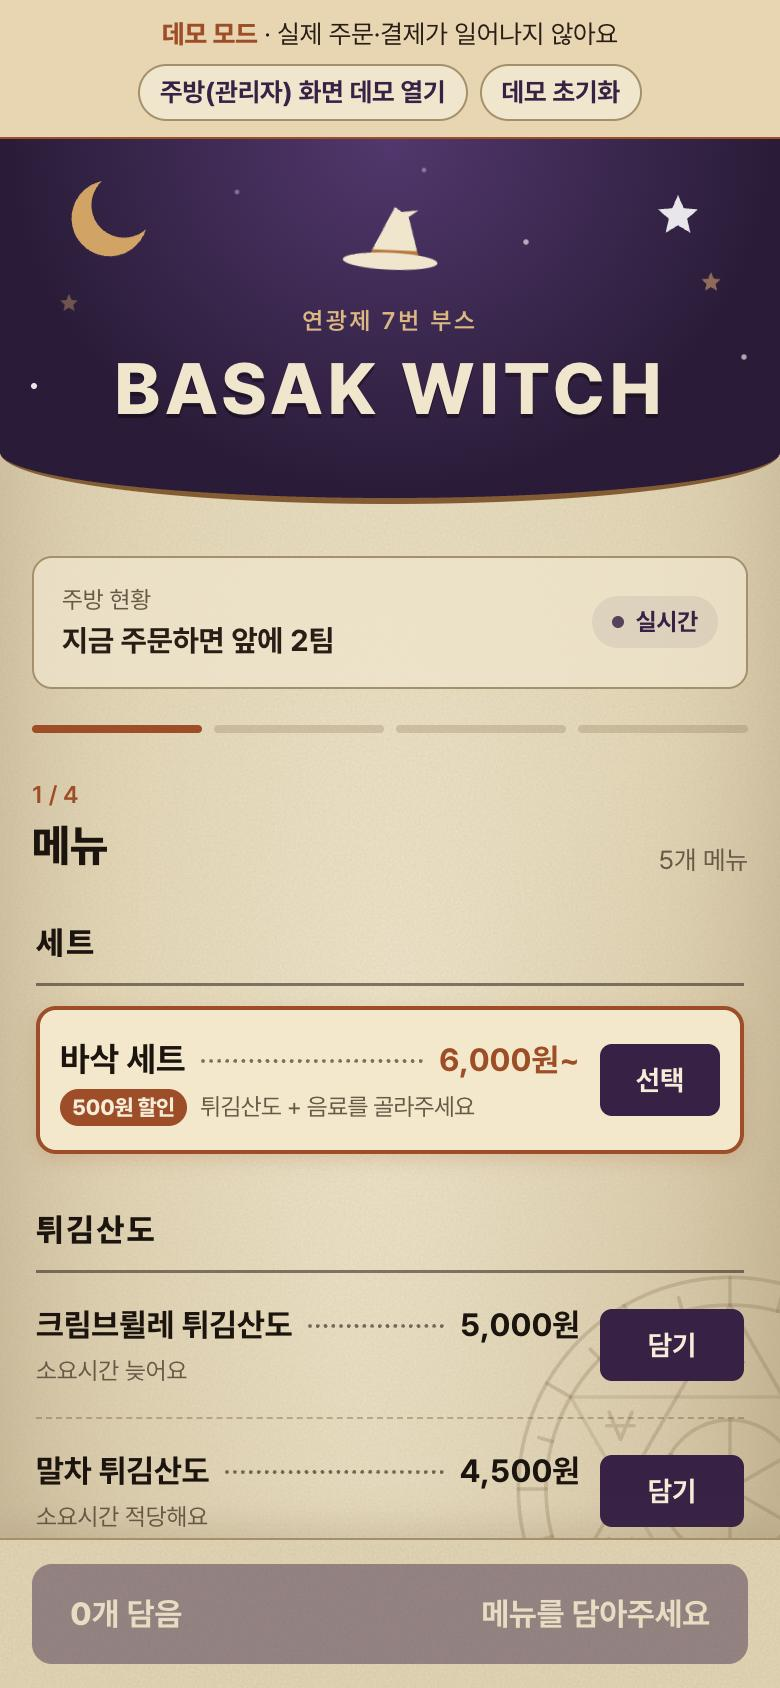
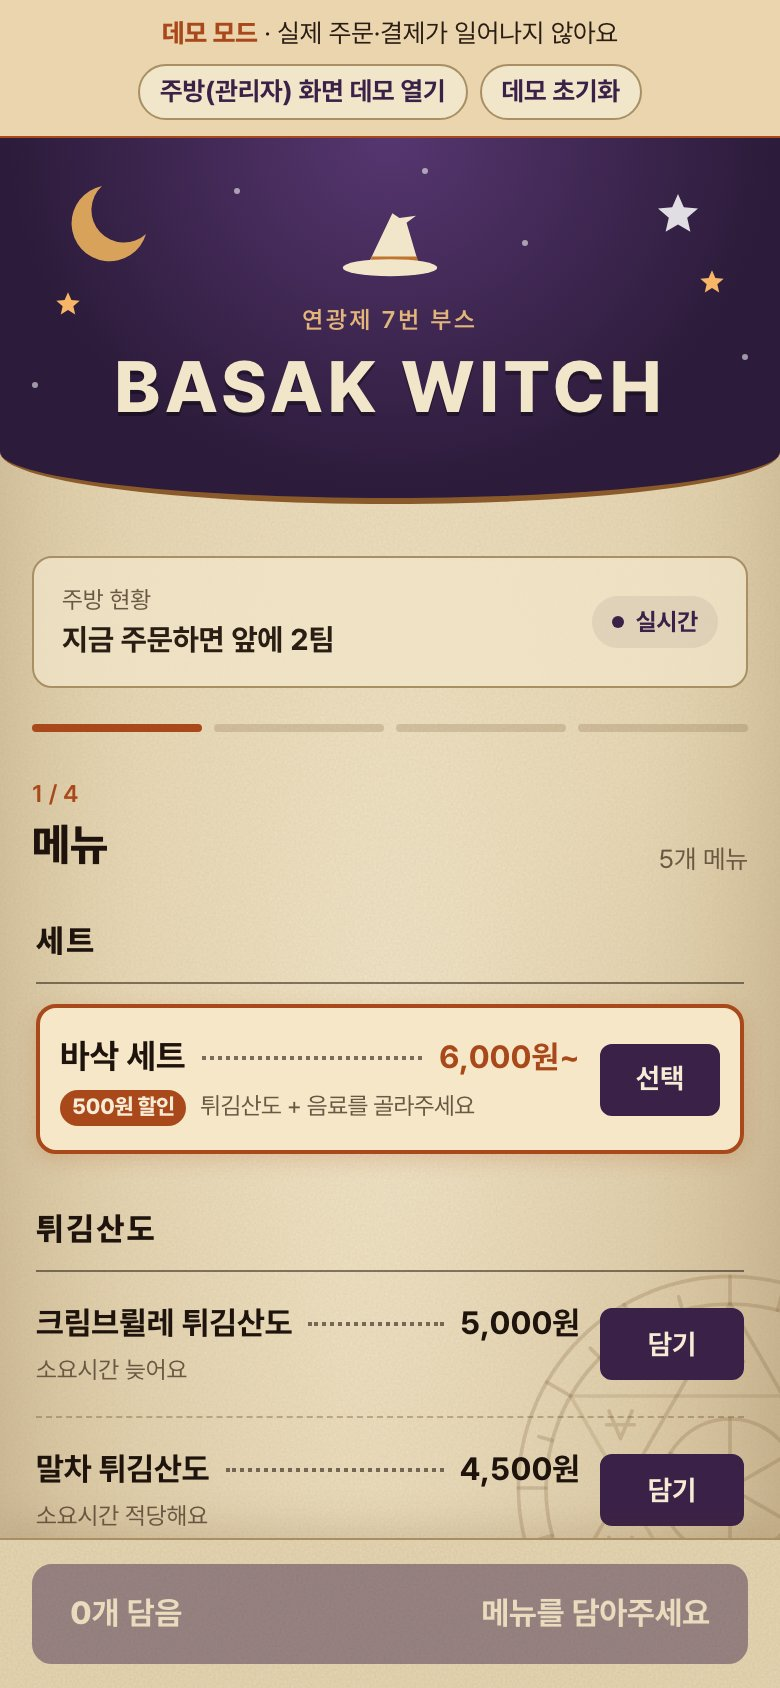
docs: README 소개 스크린샷 크기 맞추고 주문 현황을 PC 화면으로, Supabase DB 사용 설명 추가
- 고객 화면 두 장을 같은 폰 크기(390×844, 2배)로 다시 찍어 나란히 배치
- 관리자 주방 주문 현황을 PC 크기(1440×900) 화면으로 다시 찍어 아래에 크게 배치
- 'Supabase 연결과 DB 사용' 절 추가: 연결 방식, 마이그레이션 37개, 테이블 6개, DB 함수(RPC), Realtime·Auth·RLS

diff --git a/README.md b/README.md
@@ -20,9 +20,15 @@
 학교 축제 **연광제 2026**(10/28~29)에서 운영한 7번 부스 **BASAK WITCH**(튀김산도·음료)의 주문 웹앱입니다.
 손님은 부스 앞 QR 코드를 찍어 폰으로 주문·송금하고, 부스 안에서는 태블릿의 주방 화면으로 주문을 처리합니다.
 
-| 데모 고객 메뉴 | 데모 고객 수령 알림 대기 | 데모 주방 화면 |
-| --- | --- | --- |
-| ![고객 메뉴](docs/screenshots/demo-customer-menu.jpg) | ![고객 대기 현황](docs/screenshots/demo-customer-ready.jpg) | ![주방 화면](docs/screenshots/demo-admin-kitchen.jpg) |
+| 고객 화면 · 메뉴 (폰) | 고객 화면 · 수령 알림 (폰) |
+| :---: | :---: |
+| <img src="docs/screenshots/demo-customer-menu.jpg" alt="고객 메뉴 화면" width="300"> | <img src="docs/screenshots/demo-customer-ready.jpg" alt="고객 수령 알림 화면" width="300"> |
+
+**주방 화면 · 주문 현황 (PC)**
+
+<img src="docs/screenshots/demo-admin-kitchen.jpg" alt="관리자 주방 주문 현황 화면" width="100%">
+
+<sub>모두 데모 모드에서 찍은 화면이며, 이름·연락처는 예시 값입니다.</sub>
 
 ### 고객 화면 (`index.html`)
 1. **메뉴** — 바삭 세트(튀김산도 + 음료, 500원 할인), 튀김산도 3종, 음료 2종(청귤에이드는 청귤차로 변경 가능). 품절·남은 수량 표시.
@@ -42,6 +48,33 @@
 - 가격·세트 할인·재고 차감은 브라우저가 아니라 DB 함수 `booth_create_order`에서 다시 계산합니다(손님이 금액을 조작할 수 없음).
 - 손님에게는 RLS(행 수준 보안)로 메뉴와 공개 대기열(번호·상태)만 보이고, 입금자명·연락처는 관리자만 봅니다.
 - 화면 코드는 `window.BoothStore` 인터페이스만 사용합니다. 실제 모드는 `assets/supabase-store.js`, 데모 모드는 `assets/demo-store.js`가 같은 함수를 구현하고, `assets/boot.js`가 주소의 `?demo` 여부로 둘 중 하나를 불러옵니다.
+
+### Supabase 연결과 DB 사용
+메뉴·주문·매출 데이터는 모두 **Supabase**(클라우드 PostgreSQL)에 저장하고, 고객 화면과 주방 화면이 같은 DB를 실시간으로 함께 씁니다.
+
+- **연결**: 브라우저에서 `@supabase/supabase-js@2.49.4`로 접속합니다. `assets/supabase-config.js`에는 프로젝트 URL과 공개용 publishable key만 있고, 모든 권한을 가진 Service Role 키는 코드에 넣지 않았습니다.
+- **DB 구조 관리**: 테이블·함수·보안 정책을 `supabase/migrations/`의 SQL 파일 37개로 관리하고, Supabase CLI(`npx supabase db push`)로 실제 DB에 적용했습니다. 메뉴 교체, 세트 할인, 수동 주문 같은 기능도 마이그레이션으로 DB를 먼저 바꾼 뒤 화면을 배포했습니다.
+
+| 테이블 | 저장하는 것 | 누가 읽나 |
+| --- | --- | --- |
+| `booth_settings` | 부스 이름, 입금 계좌, 영업 여부, 세트 할인 금액 | 누구나 |
+| `booth_menu_items` | 메뉴 이름·가격·분류(튀김산도/음료)·대체 메뉴·남은 수량·품절·소요시간 | 누구나(판매 중인 것만) |
+| `booth_orders` | 주문번호, 입금자명, 연락처, 상태, 금액 | 관리자만 |
+| `booth_order_items` | 주문별 메뉴 줄(이름·가격·수량 기록) | 관리자만 |
+| `booth_public_queue` | 대기열에 공개할 주문번호와 상태만 | 누구나 |
+| `booth_admins` | 관리자 계정 | 관리자 확인용 |
+
+| DB 함수(RPC) | 하는 일 |
+| --- | --- |
+| `booth_create_order` | 손님 주문 생성. 메뉴 가격·세트 할인을 DB에서 다시 계산하고, 남은 수량을 잠가 차감 |
+| `booth_get_order` | 기기에 저장된 비밀 토큰으로 내 주문만 다시 불러오기 |
+| `booth_admin_create_order` | 주방에서 넣는 수동 주문(관리자만, 바로 조리 중) |
+| `booth_is_admin` | 로그인한 계정이 관리자인지 확인 |
+| `booth_sync_public_queue` (트리거) | 주문이 생기거나 상태가 바뀌면 공개 대기열을 자동 갱신 |
+
+- **실시간(Realtime)**: `booth_public_queue`의 변경을 구독해서, 주방에서 `수령 가능`을 누르면 손님 폰 화면이 새로고침 없이 바뀌고 수령 알림이 뜹니다.
+- **로그인(Auth)**: 관리자는 Supabase Auth로 로그인하고, `booth_admins`에 등록된 계정만 주문·메뉴를 바꿀 수 있습니다.
+- **보안(RLS)**: 행 수준 보안 정책으로 손님은 메뉴와 공개 대기열만 읽을 수 있고, 주문 테이블을 직접 읽거나 쓸 수 없습니다. 주문은 위 DB 함수를 통해서만 만들어집니다.
 
 ### 축제 결과
 이틀 동안 실제로 이 앱으로 주문을 받았습니다. 입금 확인된 주문만 세면 **225건, 419개, 1,917,000원**입니다(10/29 21시 집계, 취소·입금 대기 주문 제외).
